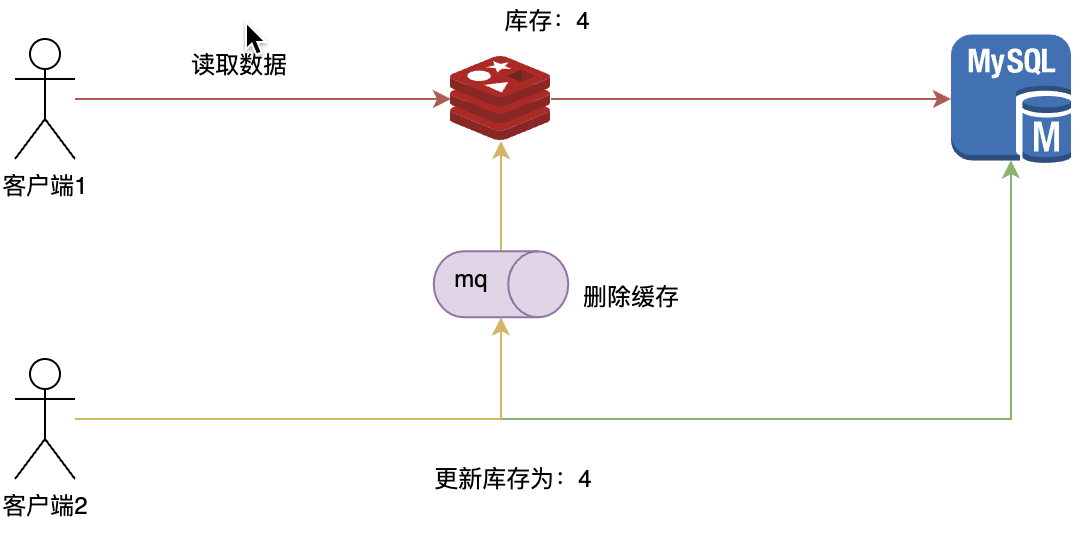
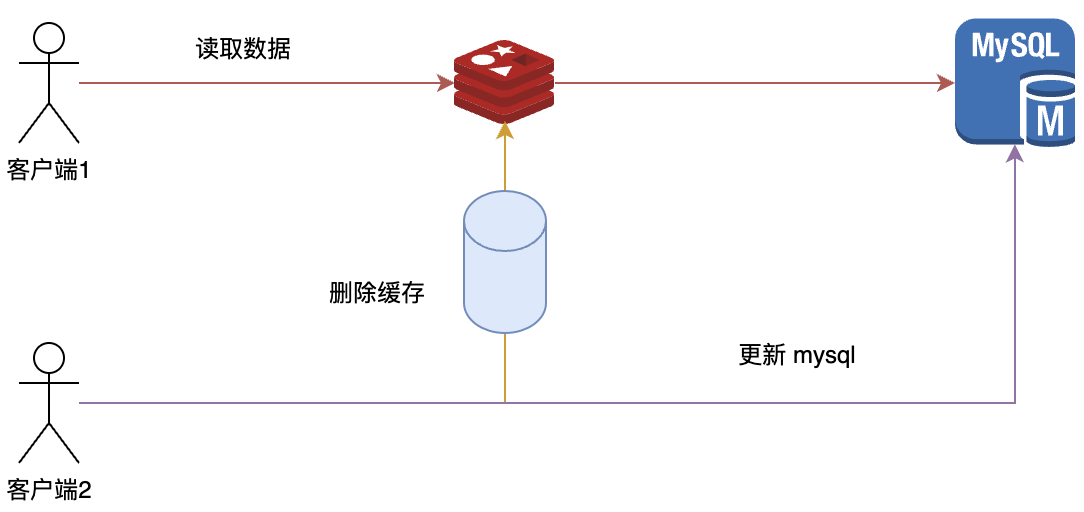
Redis 缓存：数据一致性

diff --git a/_posts/2024-06-03-redis.md b/_posts/2024-06-03-redis.md
@@ -108,20 +108,58 @@ comments: true
 1. **设置不同的过期时间**：
    - 为缓存数据设置不同的过期时间，避免大量数据在同一时间点失效。可以通过在过期时间上增加一个随机值来实现。
 
+# 5. 什么时候使用读缓存，什么时候使用读写缓存
+
+读缓存（Read Cache）通常用于提高读取数据的速度和效率。当应用程序或系统主要执行大量的读取操作，而写入操作较少时，使用读缓存可以显著提高性能。例如，网站服务器、文件服务器和数据库服务器在处理大量用户查询请求时，常常会使用读缓存来缓存热点数据，从而减少对后端存储的访问，提高响应速度。
+
+读写缓存（Read-Write Cache）则在处理读取和写入操作时都能提供性能优势。它不仅缓存读取的数据，还可以暂存写入的数据，延迟将这些数据写回到存储设备。这种机制特别适用于写入操作频繁的应用，如交易处理系统、数据库写操作等。读写缓存可以减少磁盘I/O操作，缓解后端存储的压力，提高整体系统性能。
+
+总的来说，选择使用读缓存还是读写缓存主要取决于应用的工作负载特性。如果应用主要是读取密集型的，使用读缓存即可；如果应用既有大量读操作又有大量写操作，那么使用读写缓存会更加合适。在实际部署时，还需要考虑数据一致性和耐久性等因素，合理配置缓存策略。
+
 ## 5. 读缓存怎么保持数据的一致性
 
-- 为什么会造成读缓存数据不一致
-  
-  ![image](/assets/img/2024-06-03/4.png)
-  
-  客户端2更新库存为 4 之后删除缓存失败，这就会导致客户端1获取的数据不是最新的数据从到导致的数据一致性的问题
+日常的操作中我们有两种情况：
 
-- 如何解决数据一致性问题
+- 先更新数据库，在删除缓存
+
+- 先删除缓存，在更新数据库
+
+这两种情况有着什么问题我们来分别分析下。
+
+![image](/assets/img/2024-06-03/4.png)
+
+- 先更新数据库，在删除缓存
+
+如果更新数据库后再删除缓存的时候失败，这样直到 redis key的过期时间后数据才会变化。如果对数据的实时性没有高强度的追求，但是需要等 redis key 过期也是不完美的。如果删除失败我们可以想到重试，但是在接口中同步重试终究是有限制的。所以我们这里直接引入一个队列来进行异步的删除，如下图：
+
+![image](/assets/img/2024-06-03/5.png)
+
+但是如果我们对数据的时效性有着严格的要求我们只能对删除操作和更新操作进行加锁，但是这样就违背了我们引入缓存的目的：加速请求。
+
+- 先删除缓存，在更新数据库
+
+如果先删除缓存在更新数据库，在高并发的情况下还未更新数据时候就有请求那么缓存就保存的是旧的数据，这样我们就只能等到数据过期才能拿到一致的数据。我们是不是能在更新数据库之后再次删除缓存呢？
+
+基于上面两种情况的分析，目前比较的好的解决方案如下：
+
+- 延迟双删
   
-  我们首先想到解决方是就是重试，但是一次请求中进行同步重试这样请求的资源有限，很大的概率会造成接口超时等问题。既然同步重试不可能我们是不是可以异步重试解决这个问题
+  1. 更新数据库
   
-  ![image](/assets/img/2024-06-03/5.png)
+  2. 删除缓存的数据
+  
+  3. 引入延迟
+  
+  4. 再次删除缓存中的数据
 
 ## 5. 读写缓存怎么保持数据的一致性
 
-## 6. 总结
+![image](/assets/img/2024-06-03/6.png)
+
+当我们进行双写的时候在写数据库的时候有可能请求数据库失败，这样就导致数据的不一致性。
+
+- 如何解决数据一致性问题
+  
+  1. 锁机制：我们可以使用分布式锁来保证更新 redis 和更新数据库的原子性，这样就能保证数据的一致性
+  
+  2. 缓存刷新：定期刷新缓存，将缓存中的数据写回到内存中，以确保缓存中的数据与内存中的数据保持一致。
